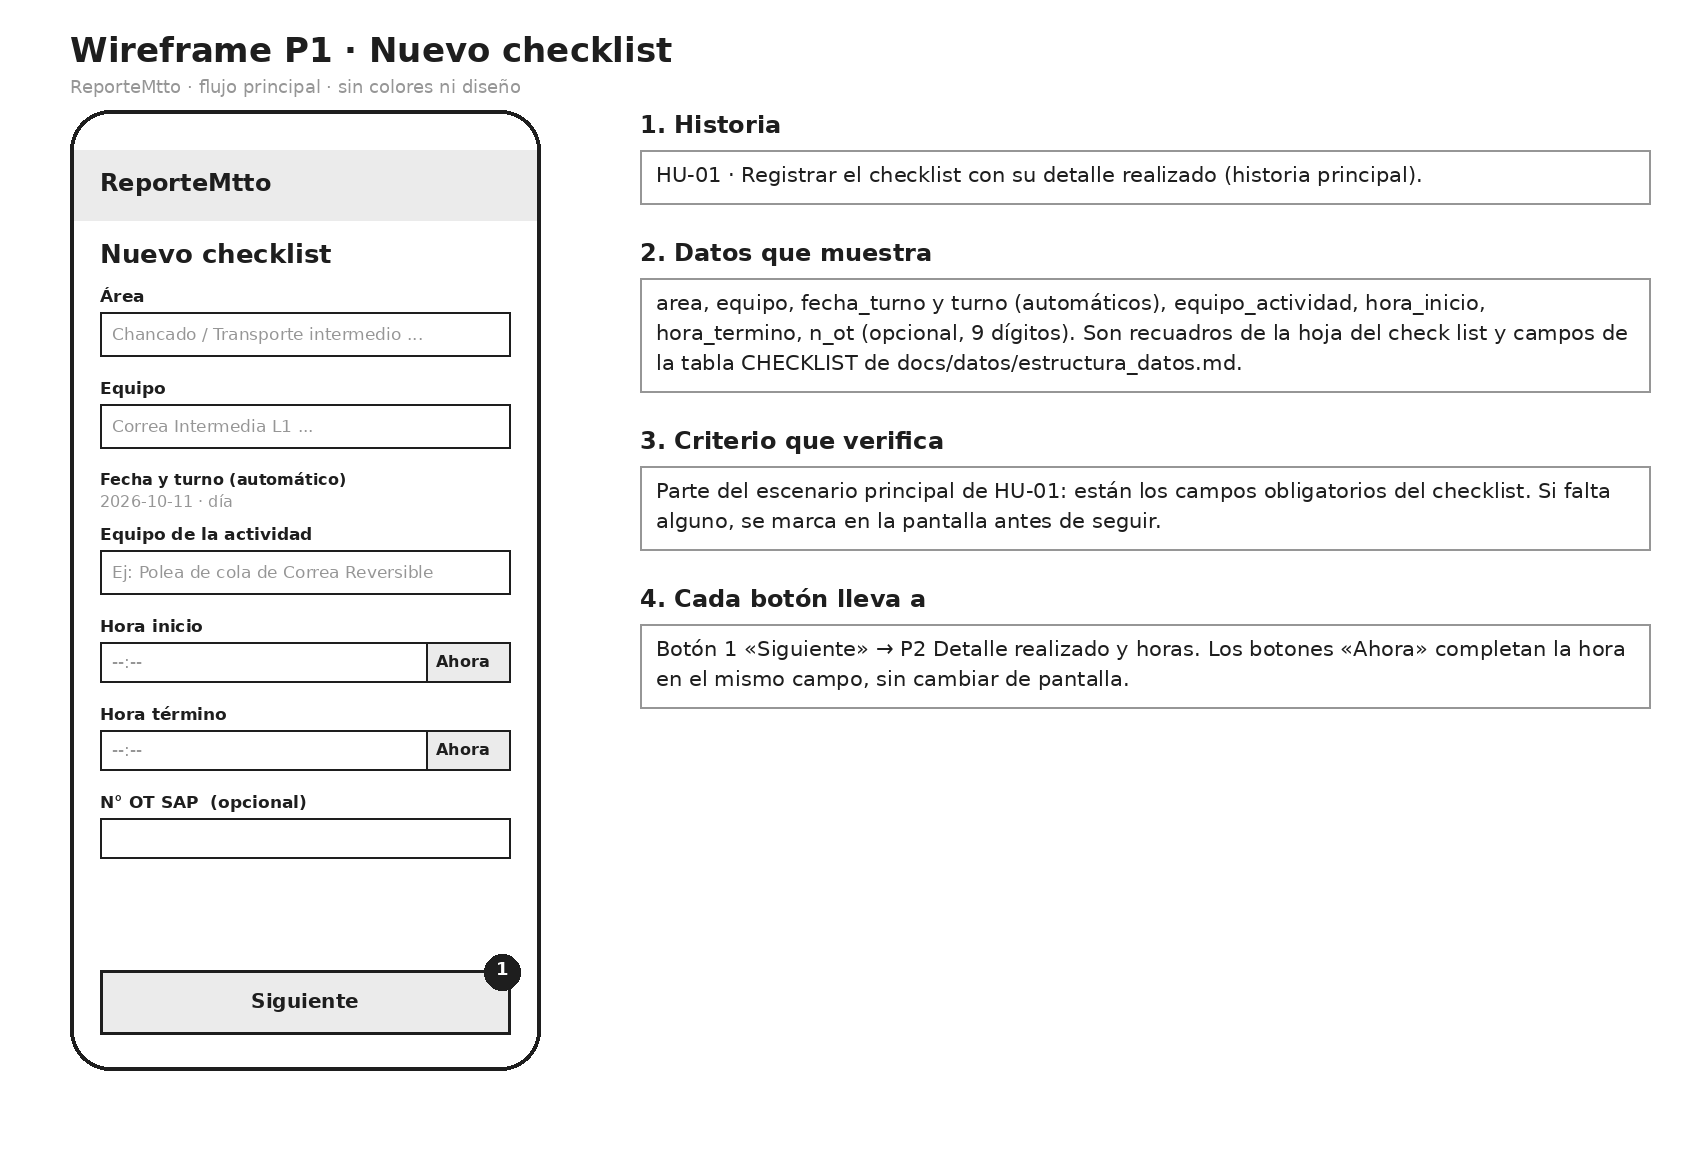
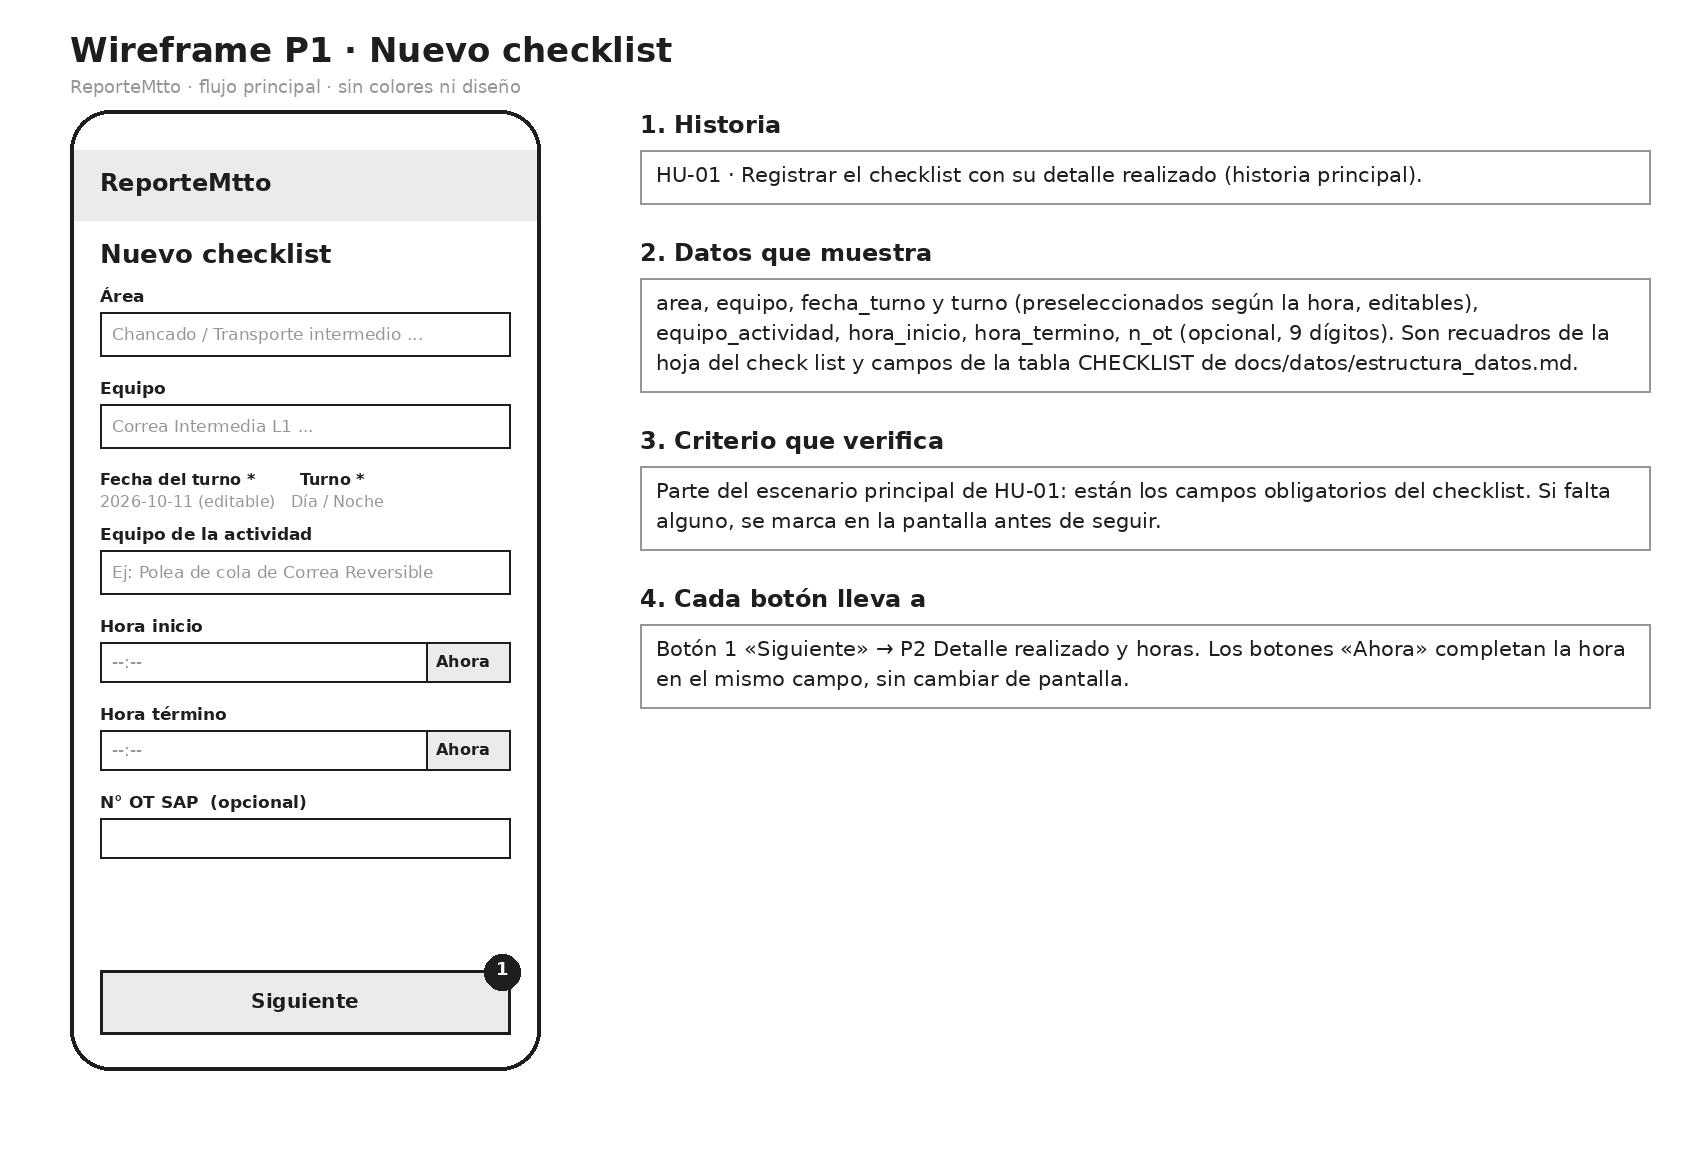
Fecha y turno editable

Changed region(s): [[0.3741, 0.2435, 0.9665, 0.3348], [0.0935, 0.3957, 0.2182, 0.4565]]

diff --git a/src/app.js b/src/app.js
@@ -69,7 +69,7 @@
       area: '', areaOtra: '', equipo: '', equipoOtro: '', equipoAct: '',
       inicio: '', termino: '', n_ot: '',
       detalle: '', obs: '',
-      n_trabajadores: 3, min_traslado: '0', min_espera_bloqueo: '0',
+      n_trabajadores: 3, min_traslado: '0', min_espera_bloqueo: '0', fecha: hoy(), turno: turnoAhora(),
       p1Ok: false, p2Ok: false
     };
   }
@@ -236,8 +236,14 @@
           '<input type="text" id="equipoOtro" placeholder="Ej: Correa Nueva" value="' + esc(d.equipoOtro) + '"></div>' +
           campoErr('equipo') + '</div>' +
 
-        '<div class="campo"><span class="etiqueta">Fecha y turno (automático)</span>' +
-          '<p class="fecha-auto">' + hoy() + ' · turno ' + turnoAhora() + '</p></div>' +
+        '<div class="fila-2">' +
+          '<div class="campo"><label for="fecha">Fecha del turno *</label>' +
+            '<input type="date" id="fecha" value="' + esc(d.fecha) + '"></div>' +
+          '<div class="campo"><label for="turno">Turno *</label>' +
+            '<select id="turno"><option value="día"' + (d.turno === 'día' ? ' selected' : '') + '>Día</option>' +
+            '<option value="noche"' + (d.turno === 'noche' ? ' selected' : '') + '>Noche</option></select></div>' +
+        '</div>' +
+        '<p class="ayuda">Fecha y turno vienen preseleccionados según la hora del teléfono. Cámbialos si reportas otro turno.</p>' +
 
         '<div class="campo"><label for="equipoAct">Equipo de la actividad *</label>' +
           '<input type="text" id="equipoAct" aria-describedby="ayuda-eqact err-equipoAct" placeholder="Ej: Polea de cola de Correa Reversible" value="' + esc(d.equipoAct) + '">' +
@@ -264,6 +270,8 @@
       d.equipo = $('#equipo').value;
       d.equipoOtro = $('#equipoOtro').value;
       d.equipoAct = $('#equipoAct').value;
+      d.fecha = $('#fecha').value || d.fecha;
+      d.turno = $('#turno').value;
       d.inicio = $('#inicio').value;
       d.termino = $('#termino').value;
       d.n_ot = $('#n_ot').value.trim();
@@ -445,7 +453,7 @@
         var d = S.draft;
         var reg = {
           id: S.siguienteId++, area: areaFinal(d), equipo: equipoFinal(d), equipoAct: d.equipoAct.trim(),
-          detalle: d.detalle.trim(), obs: d.obs.trim(), fecha: hoy(), turno: turnoAhora(),
+          detalle: d.detalle.trim(), obs: d.obs.trim(), fecha: d.fecha, turno: d.turno,
           inicio: d.inicio, termino: d.termino, n_ot: d.n_ot,
           traslado: parseInt(d.min_traslado, 10), espera: parseInt(d.min_espera_bloqueo, 10),
           trab: d.n_trabajadores, hh: horasHombre(d), cargo: S.cargo,

diff --git a/src/styles.css b/src/styles.css
@@ -100,7 +100,7 @@ p { margin: 0; }
 .campo label, .campo .etiqueta { font-weight: 700; }
 .campo .opc { font-weight: 400; }
 
-input[type="text"], input[type="tel"], input[type="time"], input[type="number"], select, textarea {
+input[type="text"], input[type="tel"], input[type="time"], input[type="date"], input[type="number"], select, textarea {
   min-height: 48px;
   font-size: 16px;
   padding: var(--u) calc(var(--u) * 1.5);

diff --git a/docs/prototipo.md b/docs/prototipo.md
@@ -65,7 +65,7 @@ Además se puede **cancelar** en P1 (con confirmación) y la bandeja muestra un 
 
 | Pantalla | Campos (como en la hoja oficial) |
 |---|---|
-| P1 · Nuevo checklist | Área (Superficie, Chancado, Transporte intermedio, Transporte principal u Otro), Equipo (lista según el área u Otro), fecha y turno (automáticos), Equipo de la actividad (texto), Hora inicio, Hora término, N° OT SAP (opcional, 9 dígitos) |
+| P1 · Nuevo checklist | Área (Superficie, Chancado, Transporte intermedio, Transporte principal u Otro), Equipo (lista según el área u Otro), Fecha del turno y Turno (Día o Noche; vienen preseleccionados según la hora del teléfono y se pueden cambiar), Equipo de la actividad (texto), Hora inicio, Hora término, N° OT SAP (opcional, 9 dígitos) |
 | P2 · Detalle realizado y horas | Detalle realizado (texto, se puede pegar desde las notas del teléfono), Observaciones detectadas durante recepción de actividades (opcional; ahí va el N° SAP de un repuesto si hace falta), Duración (calculada), Tiempo traslado, Tiempo espera bloqueo, N° trabajadores, Horas hombre (calculadas) |
 | P3 · Firma | Nombre, cargo (Supervisor o Capataz) y empresa de quien entrega (del perfil) y firma con el dedo. La firma de quien recibe la hace el mandante en el documento impreso |
 | P4 · Confirmación | Estado (enviado o pendiente) y horas hombre |
@@ -77,7 +77,7 @@ Las cuatro decisiones de diseño del formulario:
 - **Solo campos justificados.** Cada campo existe en la hoja oficial, viene de una historia y está en `docs/datos/estructura_datos.md`. No hay campos de foto, voz, causa de falla ni repuesto (ver `docs/etica.md`, integración).
 - **Etiqueta siempre visible** sobre cada campo; el texto de ayuda dentro del campo solo da un ejemplo.
 - **Error junto al campo**, con ⚠ y un mensaje que dice cómo corregir (por ejemplo: «El N° de OT tiene 9 dígitos, por ejemplo 111254880. Corrígelo o déjalo vacío.»).
-- **Opciones en vez de texto libre:** área y equipo son listas (con «Otro» para escribir a mano); las horas se marcan con «Ahora»; fecha y turno son automáticos; los trabajadores se ajustan con + y −; la duración y las horas hombre se calculan solas.
+- **Opciones en vez de texto libre:** área y equipo son listas (con «Otro» para escribir a mano); las horas se marcan con «Ahora»; fecha y turno vienen preseleccionados y se pueden cambiar si se reporta otro turno; los trabajadores se ajustan con + y −; la duración y las horas hombre se calculan solas.
 
 | Estado | Dónde se ve |
 |---|---|
@@ -92,7 +92,7 @@ En la bandeja y en P4 el estado se expresa con texto y color («Enviado ✓» y 
 
 | Pantalla | Historia | Criterio que verifica | Simulado | Funcional |
 |---|---|---|---|---|
-| P1 · Nuevo checklist | HU-01 | Escenario principal: están los campos obligatorios; si falta alguno se marca antes de seguir | Listas de áreas y equipos (catálogo de ejemplo, falta confirmar la lista de Chancado frente a Transporte intermedio y la de Superficie); fecha y turno toman la hora del teléfono | Validación de campos obligatorios y del N° de OT de 9 dígitos; botón «Ahora»; «Cancelar» con confirmación; navegación |
+| P1 · Nuevo checklist | HU-01 | Escenario principal: están los campos obligatorios; si falta alguno se marca antes de seguir | Listas de áreas y equipos (catálogo de ejemplo, falta confirmar la lista de Chancado frente a Transporte intermedio y la de Superficie); fecha y turno se preseleccionan con la hora del teléfono | Validación de campos obligatorios y del N° de OT de 9 dígitos; botón «Ahora»; «Cancelar» con confirmación; navegación |
 | P2 · Detalle realizado y horas | HU-01 y HU-02 | HU-01: la persona ve sus horas hombre calculadas antes de enviar. HU-02: las observaciones aceptan el N° SAP del repuesto | El texto pegado desde las notas (se escribe en el campo) | Cálculo de horas hombre en vivo (fórmula de `estructura_datos.md`; con los datos reales da 12,5 y 6,0); validación de minutos y del detalle |
 | P3 · Firma | HU-03 | El supervisor ve su firma dibujada en la pantalla antes de enviar; el mandante firma después, en papel | El nombre, cargo y empresa (datos de ejemplo del perfil) y el envío (espera de 1,2 segundos, sin servidor) | Firma con el dedo o el mouse, «Limpiar», error si falta la firma, estado «Enviando…» |
 | P4 · Confirmación | HU-01 | Principal: «Checklist enviado», estado «enviado» y horas hombre. Alternativo: estado «pendiente» con «Se enviará al recuperar señal» | Que el envío llegue al servidor | Los dos resultados según el control «Señal»; reenvío automático al volver la señal; «Nuevo checklist» |

diff --git a/docs/etica.md b/docs/etica.md
@@ -22,8 +22,8 @@ Una fila por cada campo del formulario del prototipo, que sigue los recuadros de
 | `area` (P1) | No | Saber dónde se hizo el trabajo (HU-01) | Autor, programador, equipo | 2 años desde la fecha del turno |
 | `equipo` (P1) | No | Identificar el equipo intervenido (HU-01) | Autor, programador, equipo | 2 años desde la fecha del turno |
 | `equipo_actividad` (P1) | No | Identificar el equipo o sub equipo donde se hizo la actividad (HU-01) | Autor, programador, equipo | 2 años desde la fecha del turno |
-| `fecha_turno` (P1, automático) | Indirecto: junto al autor dice cuándo trabajó | Ubicar el checklist en el turno correcto (HU-01, HU-04) | Autor, programador, equipo | 2 años desde la fecha del turno |
-| `turno` (P1, automático) | Indirecto, igual que la fecha | Filtrar la bandeja por turno (HU-04) | Autor, programador, equipo | 2 años desde la fecha del turno |
+| `fecha_turno` (P1, preseleccionada y editable) | Indirecto: junto al autor dice cuándo trabajó | Ubicar el checklist en el turno correcto (HU-01, HU-04) | Autor, programador, equipo | 2 años desde la fecha del turno |
+| `turno` (P1, preseleccionado y editable) | Indirecto, igual que la fecha | Filtrar la bandeja por turno (HU-04) | Autor, programador, equipo | 2 años desde la fecha del turno |
 | `hora_inicio` (P1) | Indirecto | Calcular la duración y las horas hombre (HU-01) | Autor, programador, equipo | 2 años desde la fecha del turno |
 | `hora_termino` (P1) | Indirecto | Calcular la duración y las horas hombre (HU-01) | Autor, programador, equipo | 2 años desde la fecha del turno |
 | `n_ot` (P1 y P5) | No | Asociar el checklist a la orden de trabajo (9 dígitos); el programador lo completa o corrige (HU-01, HU-04) | Autor, programador, equipo | 2 años desde la fecha del turno |

diff --git a/docs/datos/estructura_datos.md b/docs/datos/estructura_datos.md
@@ -79,7 +79,7 @@ La tabla FOTO queda fuera del prototipo del Avance 5: la hoja oficial no tiene r
   - Chancado y Transporte intermedio: Chancador, Apron Primario, Correa de Finos, Apron Secundario, Correa Sacrificio y Correa Intermedia, cada uno en las líneas L1, L2 y L3; más Correa Colectora Norte y Correa Reversible. Todavía no se define qué equipo va en cada una de las dos áreas, así que ambas muestran la misma lista.
   - Transporte principal: Alimentador Norte, Alimentador Sur, Correa Nivel 1, Correa Transferencia, Correa Principal 1, Correa Principal 2, Correa Overland, Alimentador 1, Alimentador 2, Correa Pila Mina, Correa Complementaria y Correa 442.
   - Superficie: sin lista por ahora, se escribe a mano.
-- **Turno:** día o noche (automático).
+- **Turno:** día o noche; se preselecciona según la hora, pero la persona puede cambiarlo.
 - **Cargo:** Supervisor o Capataz.
 
 ### Relaciones y cardinalidad
